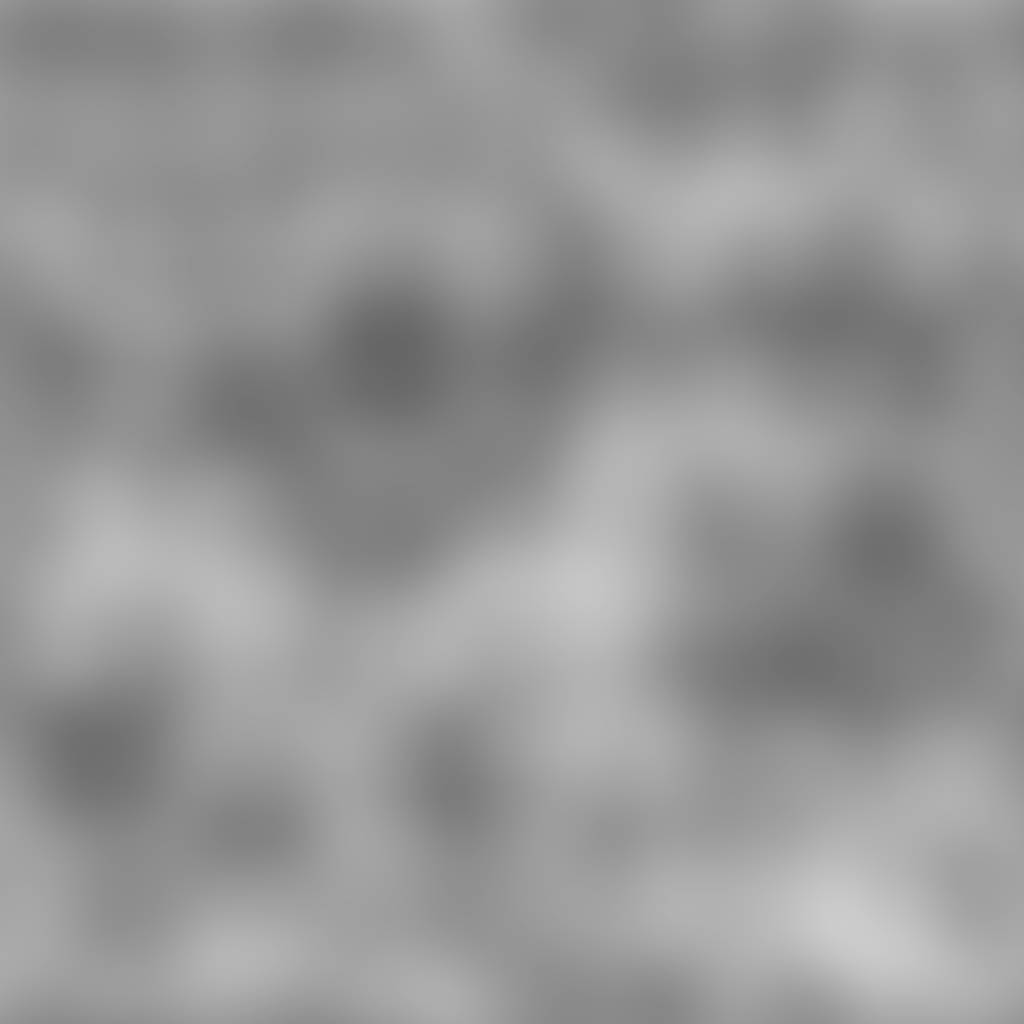
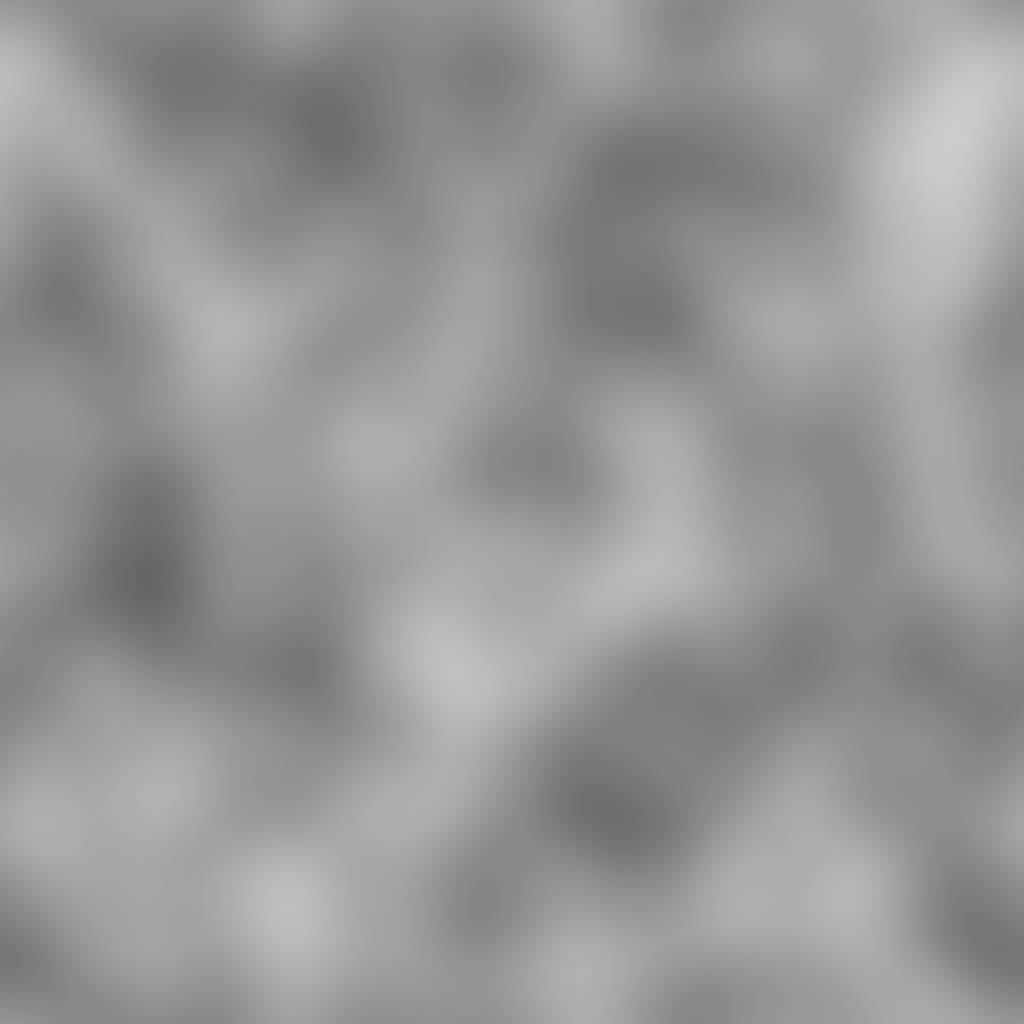
Fixed top margin

diff --git a/html5/fire.css b/html5/fire.css
@@ -1,11 +1,11 @@
 .fire {
 	background-image: url(noise1.jpg), url(noise2.jpg), linear-gradient(#fff, #999);
-	background-blend-mode: difference;
+	background-blend-mode: difference, difference, normal;
 	filter: sepia(1) contrast(6);
-	animation: sliding 3s linear infinite;
+	animation: sliding 5s linear infinite;
 }
 
 @keyframes sliding {
-	from { background-position: 1024px 4096px, 0 2048px, 0 0; }
+	from { background-position: 1024px 9216px, 0 7168px, 0 0; }
 	to   { background-position: 0 0, 1024px 0, 0 0; }
 }

diff --git a/html5/index.html b/html5/index.html
@@ -6,8 +6,6 @@
 <link rel="stylesheet" type="text/css" href="fire.css">
 </head>
 <body>
-<div class="fire">
-<h1>CSS fire animation</h1>
-</div>
+<h1 class="fire">CSS fire animation</h1>
 </body>
 </html>

diff --git a/html5/index.css b/html5/index.css
@@ -1,9 +1,6 @@
-html, body, body > div {
+* {
 	margin: 0;
 	height: 100%;
-}
-
-h1 {
 	color: #777;
 	font-size: 6vw;
 	text-align: center;
